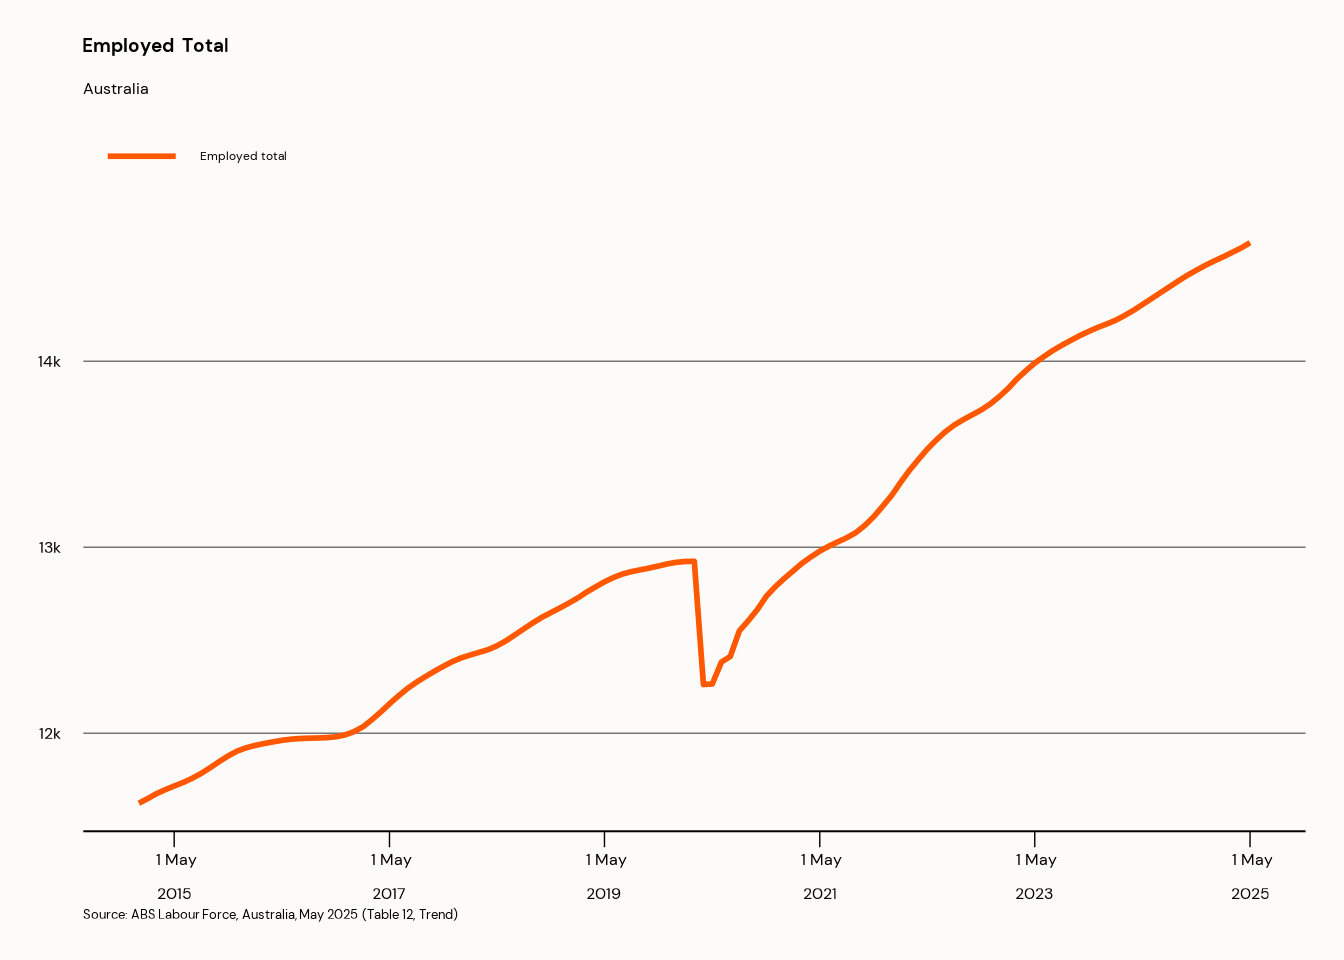
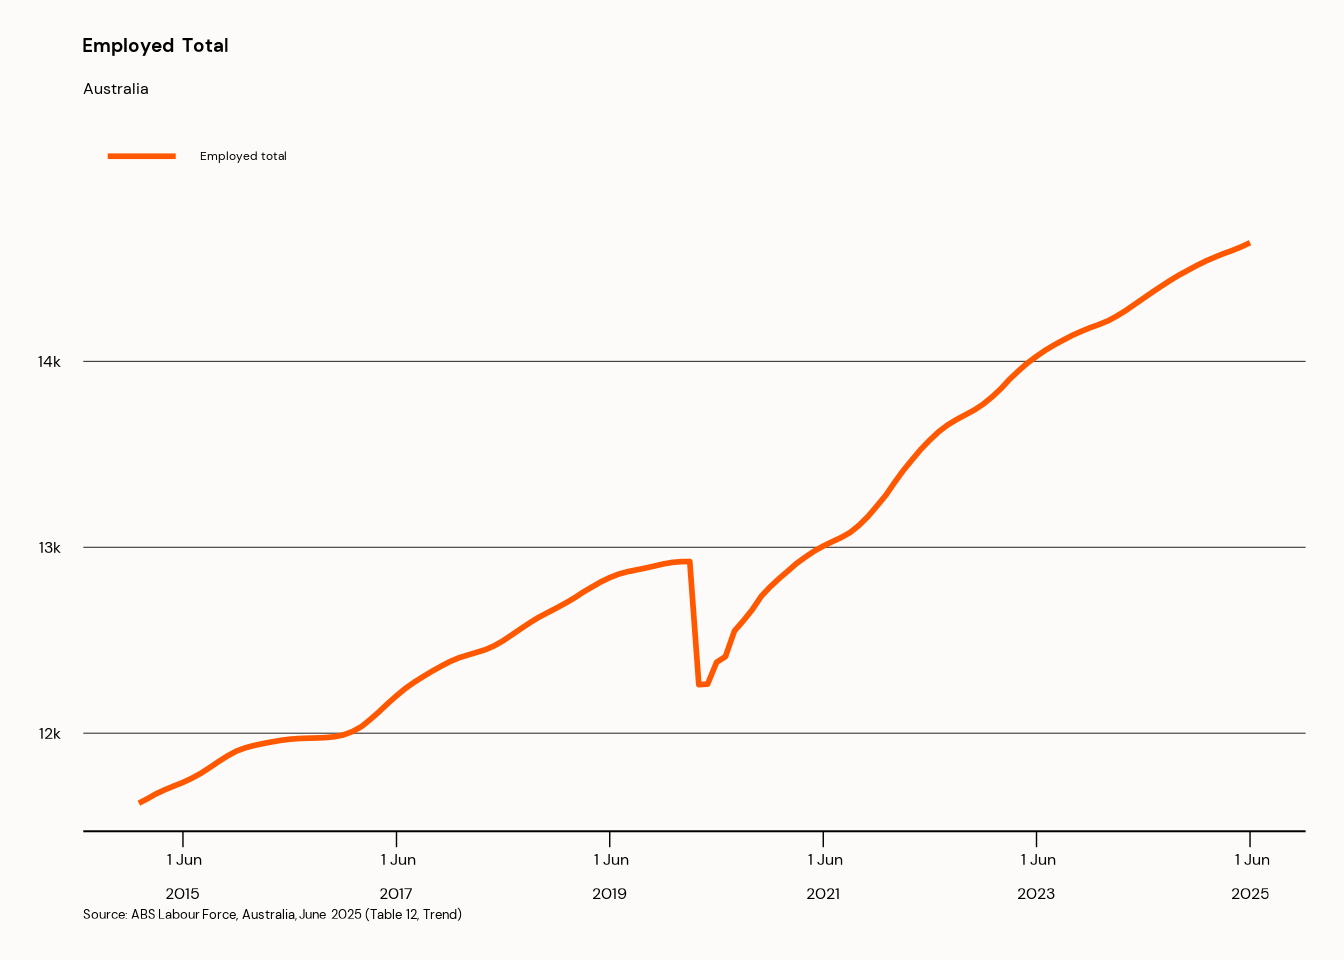
Deploying to gh-pages from @ amwu-nrc/reportabs@88c968e969ae02657a075fa7418348713febd1c3 🚀

diff --git a/articles/reporting.html b/articles/reporting.html
@@ -75,12 +75,12 @@
 <div class="cell">
 <div class="sourceCode cell-code" id="cb2"><pre class="downlit sourceCode r">
 <code class="sourceCode R"><span><span class="fu"><a href="../reference/average_over.html">average_over</a></span><span class="op">(</span>data <span class="op">=</span> <span class="va">labour_force</span>, filter_with <span class="op">=</span> <span class="fu"><a href="https://rdrr.io/r/base/list.html" class="external-link">list</a></span><span class="op">(</span>indicator <span class="op">=</span> <span class="st">"Employed total"</span><span class="op">)</span>, between <span class="op">=</span> <span class="fu"><a href="https://rdrr.io/r/base/c.html" class="external-link">c</a></span><span class="op">(</span><span class="st">"2010-01-01"</span>, <span class="st">"2020-01-01"</span><span class="op">)</span><span class="op">)</span></span>
-<span><span class="co">#&gt; [1] 11793.71</span></span></code></pre></div>
+<span><span class="co">#&gt; [1] 11793.7</span></span></code></pre></div>
 </div>
 <div class="cell">
 <div class="sourceCode cell-code" id="cb3"><pre class="downlit sourceCode r">
 <code class="sourceCode R"><span><span class="fu"><a href="../reference/change.html">change</a></span><span class="op">(</span>data <span class="op">=</span> <span class="va">labour_force</span>, filter_with <span class="op">=</span> <span class="fu"><a href="https://rdrr.io/r/base/list.html" class="external-link">list</a></span><span class="op">(</span>indicator <span class="op">=</span> <span class="st">"Employed total"</span><span class="op">)</span><span class="op">)</span></span>
-<span><span class="co">#&gt; [1] "increased by 332 (2.3%) to 14,637"</span></span></code></pre></div>
+<span><span class="co">#&gt; [1] "increased by 299 (2.0%) to 14,638"</span></span></code></pre></div>
 </div>
 <p>Numbers can be formatted nicely for inclusion in documents using <code><a href="../reference/as_comma.html">as_comma()</a></code>, <code><a href="../reference/as_percent.html">as_percent()</a></code> and <code><a href="../reference/as_percentage_point.html">as_percentage_point()</a></code>.</p>
 

diff --git a/reference/change.html b/reference/change.html
@@ -96,10 +96,10 @@ be specified to calculate the change between the current value, and the value as
     <h2 id="ref-examples">Examples<a class="anchor" aria-label="anchor" href="#ref-examples"></a></h2>
     <div class="sourceCode"><pre class="sourceCode r"><code><span class="r-in"><span><span class="kw"><a href="https://rdrr.io/r/base/library.html" class="external-link">library</a></span><span class="op">(</span><span class="va"><a href="https://amwu-nrc.github.io/reportabs/">reportabs</a></span><span class="op">)</span></span></span>
 <span class="r-in"><span><span class="va">labour_force_briefing</span> <span class="op">&lt;-</span> <span class="fu"><a href="read_absdata.html">read_absdata</a></span><span class="op">(</span><span class="st">"labour_force_briefing"</span><span class="op">)</span></span></span>
-<span class="r-msg co"><span class="r-pr">#&gt;</span> Reading labour_force_briefing file found in /tmp/RtmpBrGMvV</span>
+<span class="r-msg co"><span class="r-pr">#&gt;</span> Reading labour_force_briefing file found in /tmp/Rtmprx5wcV</span>
 <span class="r-in"><span><span class="fu">change</span><span class="op">(</span><span class="va">labour_force_briefing</span>,</span></span>
 <span class="r-in"><span>filter_with <span class="op">=</span> <span class="fu"><a href="https://rdrr.io/r/base/list.html" class="external-link">list</a></span><span class="op">(</span>indicator <span class="op">=</span> <span class="st">"Employed total"</span>, series_type <span class="op">=</span> <span class="st">"Seasonally Adjusted"</span><span class="op">)</span><span class="op">)</span></span></span>
-<span class="r-out co"><span class="r-pr">#&gt;</span> [1] "increased by 329,115 (2.3%) to 14.62 million"</span>
+<span class="r-out co"><span class="r-pr">#&gt;</span> [1] "increased by 286 (2.0%) to 14,619"</span>
 </code></pre></div>
     </div>
   </main><aside class="col-md-3"><nav id="toc" aria-label="Table of contents"><h2>On this page</h2>

diff --git a/reference/value_at.html b/reference/value_at.html
@@ -75,9 +75,9 @@ If only at_year is specified, the value is averaged over the year (Not yet imple
     <h2 id="ref-examples">Examples<a class="anchor" aria-label="anchor" href="#ref-examples"></a></h2>
     <div class="sourceCode"><pre class="sourceCode r"><code><span class="r-in"><span><span class="kw"><a href="https://rdrr.io/r/base/library.html" class="external-link">library</a></span><span class="op">(</span><span class="va"><a href="https://amwu-nrc.github.io/reportabs/">reportabs</a></span><span class="op">)</span></span></span>
 <span class="r-in"><span><span class="va">labour_force_briefing</span> <span class="op">&lt;-</span> <span class="fu"><a href="read_absdata.html">read_absdata</a></span><span class="op">(</span><span class="st">"labour_force_briefing"</span><span class="op">)</span></span></span>
-<span class="r-msg co"><span class="r-pr">#&gt;</span> Reading labour_force_briefing file found in /tmp/RtmpBrGMvV</span>
+<span class="r-msg co"><span class="r-pr">#&gt;</span> Reading labour_force_briefing file found in /tmp/Rtmprx5wcV</span>
 <span class="r-in"><span><span class="fu">value_at</span><span class="op">(</span><span class="va">labour_force_briefing</span> , filter_with <span class="op">=</span> <span class="fu"><a href="https://rdrr.io/r/base/list.html" class="external-link">list</a></span><span class="op">(</span>indicator <span class="op">=</span> <span class="st">"Employed total"</span><span class="op">)</span><span class="op">)</span></span></span>
-<span class="r-msg co"><span class="r-pr">#&gt;</span> → No year or month specified. Returning data for 2025 May</span>
+<span class="r-msg co"><span class="r-pr">#&gt;</span> → No year or month specified. Returning data for 2025 June</span>
 <span class="r-out co"><span class="r-pr">#&gt;</span> numeric(0)</span>
 <span class="r-in"><span></span></span>
 </code></pre></div>

diff --git a/reference/last_value.html b/reference/last_value.html
@@ -75,10 +75,10 @@ gender, age, indicator, and series type.</p></dd>
     <h2 id="ref-examples">Examples<a class="anchor" aria-label="anchor" href="#ref-examples"></a></h2>
     <div class="sourceCode"><pre class="sourceCode r"><code><span class="r-in"><span><span class="kw"><a href="https://rdrr.io/r/base/library.html" class="external-link">library</a></span><span class="op">(</span><span class="va"><a href="https://amwu-nrc.github.io/reportabs/">reportabs</a></span><span class="op">)</span></span></span>
 <span class="r-in"><span><span class="va">labour_force_briefing</span> <span class="op">&lt;-</span> <span class="fu"><a href="read_absdata.html">read_absdata</a></span><span class="op">(</span><span class="st">"labour_force_briefing"</span><span class="op">)</span></span></span>
-<span class="r-msg co"><span class="r-pr">#&gt;</span> Reading labour_force_briefing file found in /tmp/RtmpBrGMvV</span>
+<span class="r-msg co"><span class="r-pr">#&gt;</span> Reading labour_force_briefing file found in /tmp/Rtmprx5wcV</span>
 <span class="r-in"><span><span class="fu">last_value</span><span class="op">(</span><span class="va">labour_force_briefing</span>, <span class="fu"><a href="https://rdrr.io/r/base/list.html" class="external-link">list</a></span><span class="op">(</span>indicator <span class="op">=</span> <span class="st">"Employed total"</span>,</span></span>
 <span class="r-in"><span>series_type <span class="op">=</span> <span class="st">"Seasonally Adjusted"</span><span class="op">)</span><span class="op">)</span></span></span>
-<span class="r-out co"><span class="r-pr">#&gt;</span> [1] "14.29 million"</span>
+<span class="r-out co"><span class="r-pr">#&gt;</span> [1] "14,333"</span>
 </code></pre></div>
     </div>
   </main><aside class="col-md-3"><nav id="toc" aria-label="Table of contents"><h2>On this page</h2>

diff --git a/reference/current.html b/reference/current.html
@@ -71,10 +71,10 @@ gender, age, indicator, and series type.</p></dd>
     <h2 id="ref-examples">Examples<a class="anchor" aria-label="anchor" href="#ref-examples"></a></h2>
     <div class="sourceCode"><pre class="sourceCode r"><code><span class="r-in"><span><span class="kw"><a href="https://rdrr.io/r/base/library.html" class="external-link">library</a></span><span class="op">(</span><span class="va"><a href="https://amwu-nrc.github.io/reportabs/">reportabs</a></span><span class="op">)</span></span></span>
 <span class="r-in"><span><span class="va">labour_force_briefing</span> <span class="op">&lt;-</span> <span class="fu"><a href="read_absdata.html">read_absdata</a></span><span class="op">(</span><span class="st">"labour_force_briefing"</span><span class="op">)</span></span></span>
-<span class="r-msg co"><span class="r-pr">#&gt;</span> Reading labour_force_briefing file found in /tmp/RtmpBrGMvV</span>
+<span class="r-msg co"><span class="r-pr">#&gt;</span> Reading labour_force_briefing file found in /tmp/Rtmprx5wcV</span>
 <span class="r-in"><span><span class="fu">current</span><span class="op">(</span><span class="va">labour_force_briefing</span>, <span class="fu"><a href="https://rdrr.io/r/base/list.html" class="external-link">list</a></span><span class="op">(</span>indicator <span class="op">=</span> <span class="st">"Employed total"</span>,</span></span>
 <span class="r-in"><span>series_type <span class="op">=</span> <span class="st">"Seasonally Adjusted"</span><span class="op">)</span><span class="op">)</span></span></span>
-<span class="r-out co"><span class="r-pr">#&gt;</span> [1] "14.62 million"</span>
+<span class="r-out co"><span class="r-pr">#&gt;</span> [1] "14,619"</span>
 <span class="r-in"><span></span></span>
 </code></pre></div>
     </div>
